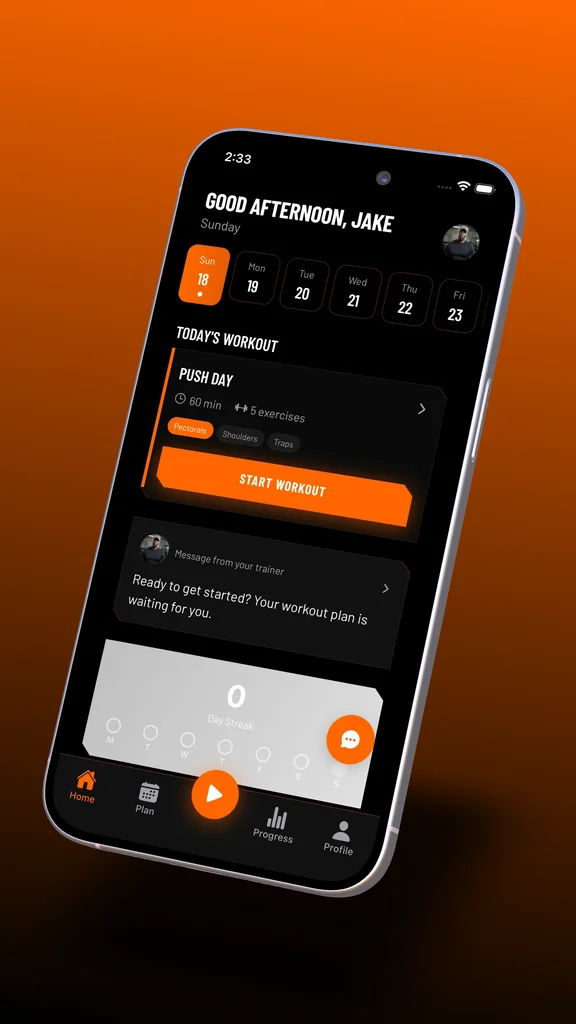
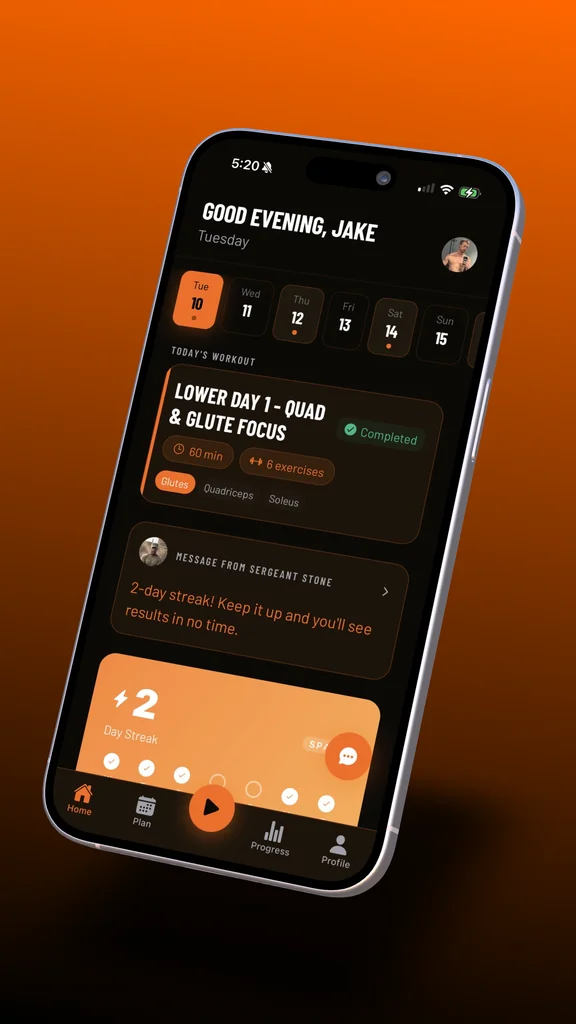
Update hero image to new device mockup, add canonical URLs for Bing indexing
- Replace hero phone images with new device frame mockup (3 WebP sizes)
- Add canonical URLs to blog posts, blog listing, about, and trainer pages
- Remove Bingbot/Googlebot crawl-delay from robots.txt

diff --git a/src/components/hero/Hero3DPhone.tsx b/src/components/hero/Hero3DPhone.tsx
@@ -8,10 +8,10 @@ const appMockupHero = "/app-mockup-hero.webp";
 
 // Fixed dimensions for CLS prevention
 // These match Tailwind's w-72 (288px), md:w-80 (320px), lg:w-96 (384px)
-// Aspect ratio ~2.05:1 based on actual image dimensions
+// Aspect ratio 9:16 based on device mockup image (1620x2880)
 const PHONE_DIMENSIONS = {
   width: 384,
-  height: 788,
+  height: 683,
 } as const;
 
 interface Hero3DPhoneProps {
@@ -147,26 +147,6 @@ const Hero3DPhone = ({ className }: Hero3DPhoneProps) => {
             loading="eager"
             fetchPriority="high"
             decoding="sync"
-          />
-
-          {/* Reflection/shine effect */}
-          <motion.div
-            className="absolute inset-0 rounded-[2.5rem] pointer-events-none overflow-hidden"
-            style={{
-              background:
-                "linear-gradient(135deg, transparent 40%, hsl(0 0% 100% / 0.1) 50%, transparent 60%)",
-              transform: "translateZ(25px)",
-            }}
-            animate={
-              shouldReduceMotion
-                ? undefined
-                : { backgroundPosition: ["200% 200%", "-200% -200%"] }
-            }
-            transition={
-              shouldReduceMotion
-                ? undefined
-                : { duration: 8, repeat: Infinity, ease: "linear" }
-            }
           />
         </motion.div>
 

diff --git a/src/components/hero/HeroPhoneStatic.tsx b/src/components/hero/HeroPhoneStatic.tsx
@@ -6,10 +6,10 @@ import Image from "next/image";
 
 // Fixed dimensions for each breakpoint to prevent CLS
 // These match Tailwind's w-72 (288px), md:w-80 (320px), lg:w-96 (384px)
-// Aspect ratio ~2.05:1 based on actual image dimensions
+// Aspect ratio 9:16 based on device mockup image (1620x2880)
 const PHONE_DIMENSIONS = {
   width: 384,   // lg:w-96 (largest size for proper aspect ratio)
-  height: 788,  // Maintains phone aspect ratio
+  height: 683,  // 9:16 aspect ratio
 } as const;
 
 const HeroPhoneStatic = () => {
@@ -54,16 +54,6 @@ const HeroPhoneStatic = () => {
             }}
             priority
             sizes="(max-width: 768px) 288px, (max-width: 1024px) 320px, 384px"
-          />
-
-          {/* Reflection/shine effect */}
-          <div
-            className="absolute inset-0 rounded-[2.5rem] pointer-events-none overflow-hidden"
-            style={{
-              background:
-                "linear-gradient(135deg, transparent 40%, hsl(0 0% 100% / 0.1) 50%, transparent 60%)",
-            }}
-            aria-hidden="true"
           />
         </div>
 

diff --git a/src/app/blog/[slug]/page.tsx b/src/app/blog/[slug]/page.tsx
@@ -49,6 +49,7 @@ export async function generateMetadata({
       description: post.excerpt,
     },
     alternates: {
+      canonical: `https://forgetrainer.ai/blog/${slug}`,
       types: {
         "text/markdown": `/markdown/blog/${slug}.md`,
       },

diff --git a/src/app/trainers/[trainer]/layout.tsx b/src/app/trainers/[trainer]/layout.tsx
@@ -35,6 +35,7 @@ export async function generateMetadata({
       ],
     },
     alternates: {
+      canonical: `https://forgetrainer.ai/trainers/${trainerSlug}`,
       types: {
         "text/markdown": `/markdown/trainers/${trainerSlug}.md`,
       },

diff --git a/src/app/about/page.tsx b/src/app/about/page.tsx
@@ -22,6 +22,7 @@ export const metadata: Metadata = {
     url: "https://forgetrainer.ai/about",
   },
   alternates: {
+    canonical: "https://forgetrainer.ai/about",
     types: {
       "text/markdown": "/markdown/about.md",
     },

diff --git a/src/app/blog/page.tsx b/src/app/blog/page.tsx
@@ -24,6 +24,7 @@ export const metadata: Metadata = {
     url: "https://forgetrainer.ai/blog",
   },
   alternates: {
+    canonical: "https://forgetrainer.ai/blog",
     types: {
       "text/markdown": "/markdown/blog.md",
     },
